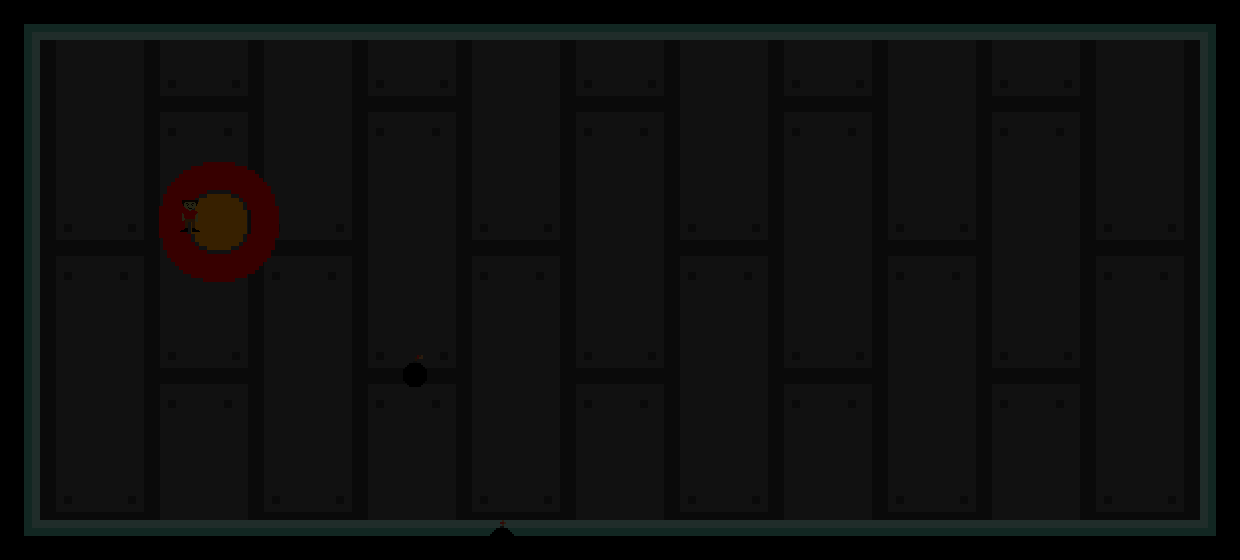
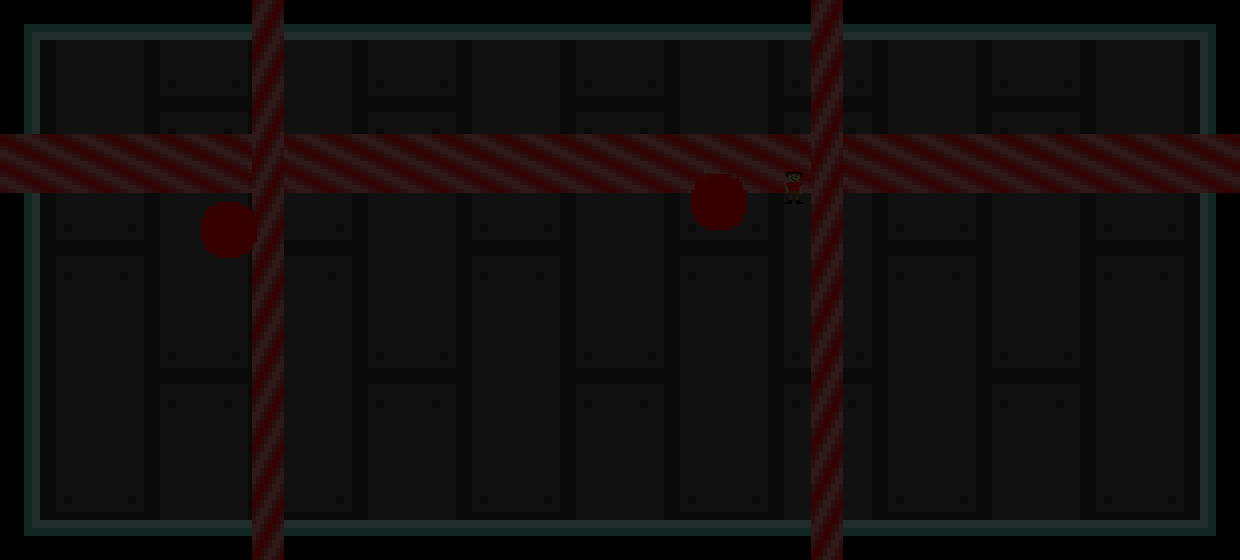
Some comments and movent is a function

Changed region(s): [[0.0, 0.0, 1.0, 1.0], [0.3984, 0.9411, 0.429, 0.9714]]

diff --git a/assignment/Main_game_V6.py b/assignment/Main_game_V6.py
@@ -97,7 +97,6 @@ def leave_leadeboard():
 player_img = pygame.image.load("assignment/pictures/the guy.png")
 player_x = 604
 player_y = 400
-player_speed = 8
 start_time = 0
 death_msg = ""
 play_time = 0
@@ -146,6 +145,29 @@ def update_leaderboard(score, dict, name):
             score, dict[i+1] = dict[i+1], score
             dict[f"name{i+1}"], name = name, dict[f"name{i+1}"]
 
+def move(x, y):
+    keypress = pygame.key.get_pressed()
+    if keypress[pygame.K_LSHIFT] or keypress[pygame.K_RSHIFT]:
+        player_speed = 8
+    else:
+        player_speed = 4
+    if keypress[pygame.K_LEFT] or keypress[pygame.K_a]:
+        x -= player_speed
+        if x < 32:
+            x = screen_width - 52
+    if keypress[pygame.K_RIGHT] or keypress[pygame.K_d]:
+        x += player_speed
+        if x > screen_width - 40:
+            x = 32
+    if keypress[pygame.K_UP] or keypress[pygame.K_w]:
+        y -= player_speed
+        if y < 32:
+            y = screen_height - 64
+    if keypress[pygame.K_DOWN] or keypress[pygame.K_s]:
+        y += player_speed
+        if y > screen_height - 64:
+            y = 32
+    return(x, y)
 title = True
 playing = False
 death = False
@@ -214,31 +236,14 @@ while running:
 
         #movement
         keypress = pygame.key.get_pressed()
-        if keypress[pygame.K_LSHIFT] or keypress[pygame.K_RSHIFT]:
-            player_speed = 8
-        else:
-            player_speed = 4
-        if keypress[pygame.K_LEFT] or keypress[pygame.K_a]:
-            player_x -= player_speed
-            if player_x < 32:
-                player_x = screen_width - 52
-        if keypress[pygame.K_RIGHT] or keypress[pygame.K_d]:
-            player_x += player_speed
-            if player_x > screen_width - 40:
-                player_x = 32
-        if keypress[pygame.K_UP] or keypress[pygame.K_w]:
-            player_y -= player_speed
-            if player_y < 32:
-                player_y = screen_height - 64
-        if keypress[pygame.K_DOWN] or keypress[pygame.K_s]:
-            player_y += player_speed
-            if player_y > screen_height - 64:
-                player_y = 32
+        (player_x, player_y) = move(player_x, player_y)
 
+        #Lets you jumo over lasers
         if keypress[pygame.K_SPACE] and jump == False:
             jump_time = pygame.time.get_ticks()
             jump = True
             player_img = pygame.image.load("assignment/pictures/the guy jump.png")
+        #makes sure you can't stay in the air forever.
         if timer - jump_time > 500:
             jump = False
             player_img = pygame.image.load("assignment/pictures/the guy.png")
@@ -247,16 +252,16 @@ while running:
         if bomb_mayhem != True:
 
             #Spawns the lasers on the screen and determines if they are harmful or not
-            #laser.spawn(play_time)
             hori_laser.spawn(play_time)
             hori_laser.attack(play_time, surface, transparent_yellow, player_y, jump)
             vert_laser.spawn(play_time)
             vert_laser.attack(play_time, surface, transparent_yellow, player_x, jump)
-            #laser.animation(play_time)
 
+        #Spawns and displays bombs
         bomb.spawn(play_time, bomb_mayhem)
         bomb.attack(play_time, player_x, player_y, surface)
         surface.blit(player_img, (player_x, player_y))
+        #If you get hit by a laser prepares everthing for entering the death screen
         if hori_laser.hit or vert_laser.hit:
             pygame.gfxdraw.box(surface, (0, 0, screen_width, screen_height), (0, 0, 0, 200))
             pygame.image.save(surface, "assignment/pictures/screenshot.png")
@@ -266,6 +271,7 @@ while running:
             death = True
             can_update = True
             name = ""
+        #Same as above but for bombs
         elif bomb.hit:
             pygame.gfxdraw.box(surface, (0, 0, screen_width, screen_height), (0, 0, 0, 200))
             pygame.image.save(surface, "assignment/pictures/screenshot.png")
@@ -276,13 +282,15 @@ while running:
             can_update = True
             name = ""
 
+        #Makes the screen shake if a bomb is exploding
         try:
             if bomb.array[0][2] >= 6:
                 surface_rotation = random.uniform(-0.5, 0.5)
         except:
             surface_rotation = 0
+        #displays how long you've been alive for
         surface.blit(font1.render(f"Time: {(play_time)/1000}", True, red), (0, screen_height - 60))
-        #button("QUIT", 0, 0, 240, 70, (100, 100, 100), (200, 200, 200), quit)
+        #lets you pause the game
         if keypress[pygame.K_ESCAPE]:
             pygame.gfxdraw.box(surface, (0, 0, screen_width, screen_height), (0, 0, 0, 200))
             playing = False
@@ -294,12 +302,15 @@ while running:
         if keypress[pygame.K_p]:
             pause = False
             playing = True
+        #Makes sure the game knows how long you have been paused for
         pause_time = pygame.time.get_ticks() - play_time - start_time
         button("QUIT", 500, 400, 240, 70, (100, 100, 100), (200, 200, 200), quit)
 
     if death:
         screen.blit(surface, (0, 0))
+        #lets you see the frame that you died in.
         surface.blit(death_img, (0, 0))
+        #checks if you have enteres 3 letters for your name and updates the leaderboard
         if len(name) == 3 and update == True:
             if bomb_mayhem != True:
                 update_leaderboard(play_time, leaderboard_dict, name)
@@ -319,6 +330,7 @@ while running:
         surface.blit(font1.render(f"you survived for {play_time/1000} seconds", True, red), (450, 400))
 
     pygame.display.set_caption(f"{int(clock.get_fps())}")
+    #updates the display
     pygame.display.update()
     clock.tick(60)
 print("end")
